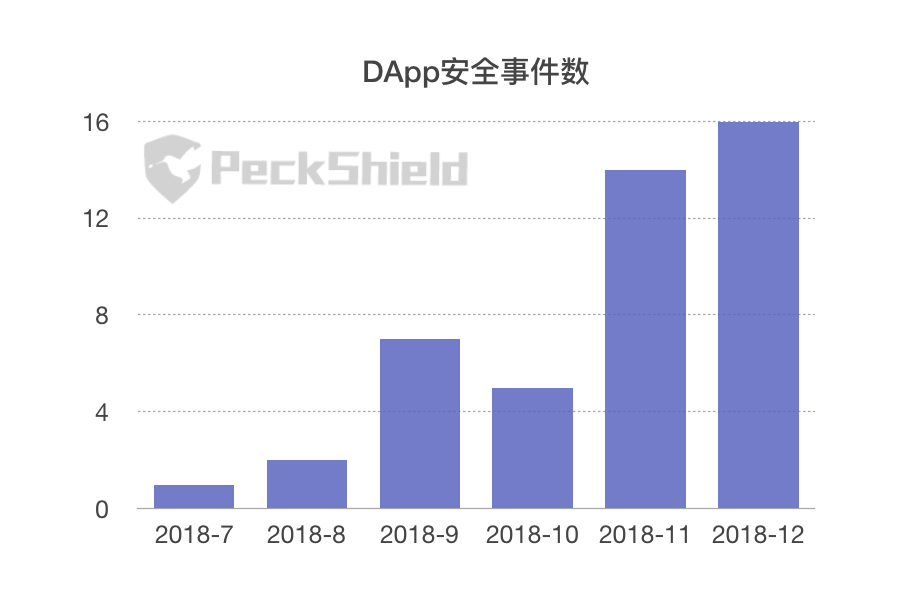
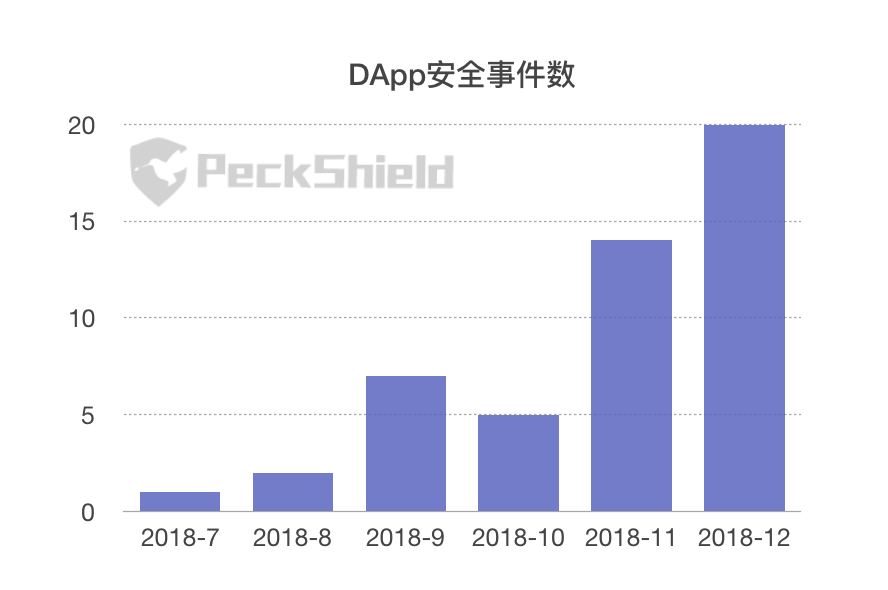
upate 2018-12-31

diff --git a/known_dapp_attacks/README.md b/known_dapp_attacks/README.md
@@ -3,11 +3,11 @@
 本文档根据发生的EOS DApp安全事件不定期更新，旨在记录EOS主网上线以来发生的各类DApp安全事件，供大家参考，同时欢迎大家对该文档提出建议及指正，以完善文档，一起促进EOS的生态健康发展。
 
 ## 概要
-截至2018年12月26日，共发生45起DApp安全事件，共损失近74万个EOS
+截至2018年12月31日，共发生49起DApp安全事件，共损失近75万个EOS
 ![EOS DApp安全事件列表](dapp_attacks_summary.png)
 
 ## EOS DApp安全事件列表
-截至2018年12月26日的安全事件列表：
+截至2018年12月31日的安全事件列表：
 ![EOS DApp安全事件列表](eos_dapp_attacks.png)
 
 ## EOS DApp安全事件历史版本
